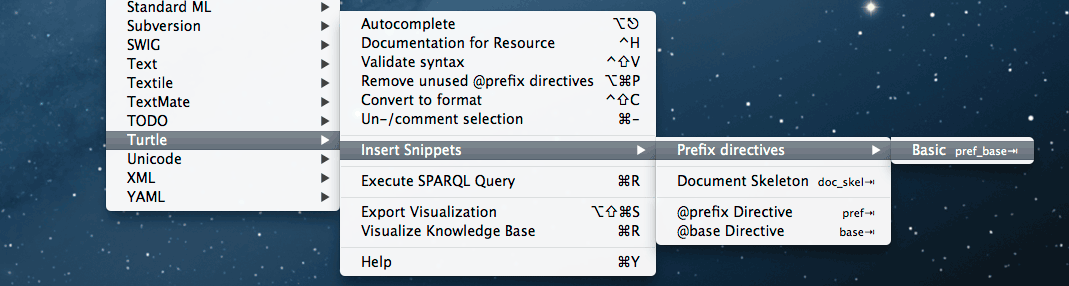
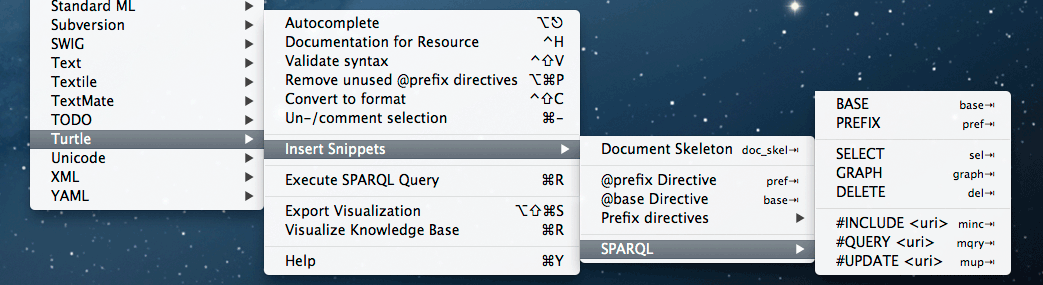
[README] Update readme (fix typo, update screenshot asf.)

diff --git a/README.md b/README.md
@@ -29,27 +29,27 @@ The Turtle bundle offers auto-completion at two levels:
 
 __NOTE: *When determining IRIs associated with a given prefix name, local prefix declarations always have precedence over those given by prefix.cc. So when you mess up IRIs in your @prefix directives, auto-completion might not work as expected.*__
 
-### Auto-completion for @prefix directives
+### Auto-completion for prefix directives
 
-When you invoke the `Autocomplete` command (ALT + ESCAPE) within the scope of a prefix directive (right after the `@prefix ` keyword), the Turtle bundle fetches a list of all prefixes registered at [prefix.cc](http://prefix.cc) and displays them nicely in a auto-complete dropdown box. Once you have chosen an and confirmed your selection, the prefix directive is automagically updated with the prefix and its according URI. (Note: the fetched data is locally cached for 24h)
+When you invoke the `Autocomplete` command (`⌥ + ⎋`) within the scope of a prefix directive (right after `@prefix` or `PREFIX`), the Turtle bundle fetches a list of all prefixes registered at [prefix.cc](http://prefix.cc) and displays them nicely in a auto-complete dropdown box. Once you have chosen an and confirmed your selection, the prefix directive is automagically updated with the prefix and its according URI. (Note: the fetched data is locally cached for 24h)
 
 __NOTE: *Auto-completion for prefix declarations is case-insensitive*__
 
 ### Auto-completion for the local part of prefixed name IRIs
 
-When you invoke the `Autocomplete` command (ALT + ESCAPE) within the scope of a prefixed name (e.g. right after `my:` or at `my:a...`), the Turtle bundle determines the actual URI that is abbreviated by the prefixed namespace and checks if there is a machine readable Vocabulary/Ontology document available (currently only RDF/S and OWL documents in the XML serialization format are supported -- but with known issues). When one is found, it is live-aggregated and all of its Classes and Roles/Properties are extracted (along with their documentation) and nicely presented in a auto-complete dropdown box. (Note: the fetched data is locally cached for 24h)
+When you invoke the `Autocomplete` command (`⌥ + ⎋`) within the scope of a prefixed name (e.g. right after `my:` or at `my:a...`), the Turtle bundle determines the actual URI that is abbreviated by the prefixed namespace and checks if there is a machine readable Vocabulary/Ontology document available (currently only RDF/S and OWL documents in the XML serialization format are supported -- but with known issues). When one is found, it is live-aggregated and all of its Classes and Roles/Properties are extracted (along with their documentation) and nicely presented in a auto-complete dropdown box. (Note: the fetched data is locally cached for 24h)
 
 __NOTE: *Auto-completion for prefixed names is case-sensitive*__
 
 ### Known issues
 
-For now, the Turtle bundle relies on [prefix.cc](http://prefix.cc) for mapping prefixes to URIs (required for all live-aggregations). The problem however is, that the available listings only contain one IRI per prefix (the one with the highest ranking) and not every IRI offers a machine readable vocabulary/ontology representation, what in turn means that for certain prefixes no auto-completion data is available. You can help to fix this, by visiting the according page at prefix.cc (URL scheme looks like `http://prefix.cc/<THE_PREFIX>`; without angle brackets of course) and up/downvoting the according URIs.
+For now, the Turtle bundle relies on [prefix.cc](http://prefix.cc) for mapping prefixes to URIs (required for all live-aggregations). The problem however is, that the available listings only contains one IRI per prefix (the one with the highest ranking) and not every IRI offers a machine readable vocabulary/ontology representation, what in turn means that for certain prefixes no auto-completion data is available. You can help to fix this, by visiting the according page at prefix.cc (URL scheme looks like `http://prefix.cc/<THE_PREFIX>`; without angle brackets of course) and up/downvoting the according URIs.
 
-The automatic aggregation of machine-readable vocabulary/ontology descriptions is working in principle but still has some shortcomings. (See the Github issue tracker) I will overwork that part when I have some more spare time and/or the need just arises.  
+The automatic aggregation of machine-readable vocabulary/ontology descriptions is working in principle but still has some shortcomings. (See the Github issue tracker) I will overwork that part when I have some more spare time and/or the need just arises. When you're told that data for a given prefix was fetched (green tooltip after a few seconds of freeze) but you will see no autocompletion dropdown later on, it probably means that the aggregator script failed and/or the IRI could not redirect to resource in a compatible format.
 
 ## Documentation for classes, roles/properties and individuals
 
-When you invoke the `Documentation for Resource` command (CTRL + H) within the scope of a prefixed name IRI (e.g. `my:Dog`), the Turtle bundle looks up if there are any informal descriptions available (like description texts, HTTP URLs to human-readable docs, asf.) and if so, displays them to the user. (Note: the fetched data is locally cached for 24h)
+When you invoke the `Documentation for Resource` command (`⌃ + H`) within the scope of a prefixed name IRI (e.g. `my:Dog`), the Turtle bundle looks up if there are any informal descriptions available (like description texts, HTTP URLs to human-readable docs, asf.) and if so, displays them to the user. (Note: the fetched data is locally cached for 24h)
 
 __NOTE: *That function also suffers from the issues outlined in the previous section.*__
 
@@ -63,7 +63,7 @@ All (web-based) query forms that crossed by cursor had one thing in common – t
 	+ including/calling other section from within the same document
 + query results are nicely displayed together with the query log in a preview window
 
-Just press `CMD + R` and your query will be executed.
+Just press `⌘ + R` and your query will be executed.
 
 ### Multiple sections/snippets syntax
 
@@ -76,23 +76,23 @@ You can have one document contain multiple (independent) sections. This is e.g. 
 A simple document with multiple sections could look like this:
 
 ```
-	#QUERY  <http://example1.com/ds/query>
-	#UPDATE <http://example1.com/ds/update>
+#QUERY  <http://example1.com/ds/query>
+#UPDATE <http://example1.com/ds/update>
 
-	PREFIX rdfs: <http://www.w3.org/2000/01/rdf-schema#>
-	PREFIX : <urn:example#>
+PREFIX rdfs: <http://www.w3.org/2000/01/rdf-schema#>
+PREFIX : <urn:example#>
 
-	INSERT DATA { :instanceA rdfs:label 'Human-readable label of instanceA'. }
+INSERT DATA { :instanceA rdfs:label 'Human-readable label of instanceA'. }
 
-	#---
-	PREFIX : <urn:example#>
-	SELECT (COUNT(?subj) AS ?n_subjs)
-	WHERE { ?subj a :ClassA }
+#---
+PREFIX : <urn:example#>
+SELECT (COUNT(?subj) AS ?n_subjs)
+WHERE { ?subj a :ClassA }
 
-	#---
-	PREFIX : <urn:example#>
-	SELECT ?g
-	WHERE { GRAPH ?g {} }
+#---
+PREFIX : <urn:example#>
+SELECT ?g
+WHERE { GRAPH ?g {} }
 ```
 
 As you probably notice, multiple sections are separated with the marker string `#---` written on a separate line.
@@ -119,43 +119,43 @@ that should contain the HTTP(S) URL to SPAR[QU]L endpoints. When even this fails
 Here is an example document with multiple sections and multiple magic comments for endpoints:
 
 ```
-	#QUERY  <http://example.com/ds/query>                 
-	#UPDATE <http://example.com/tbox/update>
-	PREFIX rdfs: <http://www.w3.org/2000/01/rdf-schema#>  \
-	PREFIX : <urn:example#>                               |
-	INSERT DATA {                                         | http://example.com/tbox/update
-	    :ClassB a rdfs:Class;                             |
-	        rdfs:subClassOf :ClassA.                      |
-	}                                                     /
+#QUERY  <http://example.com/ds/query>                 
+#UPDATE <http://example.com/tbox/update>
+PREFIX rdfs: <http://www.w3.org/2000/01/rdf-schema#>  \
+PREFIX : <urn:example#>                               |
+INSERT DATA {                                         | http://example.com/tbox/update
+    :ClassB a rdfs:Class;                             |
+        rdfs:subClassOf :ClassA.                      |
+}                                                     /
 
-	#---
-	#UPDATE <http://example.com/abox/update>
-	PREFIX : <urn:example#>                               \
-	INSERT DATA {                                         |
-	    :instA a :ClassB;                                 | http://example.com/abox/update
-	        rdfs:label 'Instance of ClassB'.              |
-	}                                                     /
+#---
+#UPDATE <http://example.com/abox/update>
+PREFIX : <urn:example#>                               \
+INSERT DATA {                                         |
+    :instA a :ClassB;                                 | http://example.com/abox/update
+        rdfs:label 'Instance of ClassB'.              |
+}                                                     /
 
-	#---
-	PREFIX : <urn:example#>                               \
-	SELECT (COUNT(?subj) AS ?n_subjs)                     | http://example.com/ds/query
-	WHERE { ?subj a :ClassA }                             /
+#---
+PREFIX : <urn:example#>                               \
+SELECT (COUNT(?subj) AS ?n_subjs)                     | http://example.com/ds/query
+WHERE { ?subj a :ClassA }                             /
 
-	#---
-	#QUERY <http://dbpedia.org/sparql>                    
-	SELECT DISTINCT ?s ?label                             \
-	WHERE {                                               | http://dbpedia.org/sparql
-	    ?s <http://dbpedia.org/property/season> ?o .      |
-	    ?s rdfs:label ?label                              |
-	}                                                     /
+#---
+#QUERY <http://dbpedia.org/sparql>                    
+SELECT DISTINCT ?s ?label                             \
+WHERE {                                               | http://dbpedia.org/sparql
+    ?s <http://dbpedia.org/property/season> ?o .      |
+    ?s rdfs:label ?label                              |
+}                                                     /
 
-	#---
-	BASE <http://dbpedia.org/>                            \
-	SELECT DISTINCT ?s ?label                             |
-	WHERE {                                               | http://dbpedia.org/sparql
-	    ?s rdfs:label ?label                              |
-	    FILTER( CONTAINS( STR(?label), 'The Wire') )      |
-	}                                                     /
+#---
+BASE <http://dbpedia.org/>                            \
+SELECT DISTINCT ?s ?label                             |
+WHERE {                                               | http://dbpedia.org/sparql
+    ?s rdfs:label ?label                              |
+    FILTER( CONTAINS( STR(?label), 'The Wire') )      |
+}                                                     /
 ```
 
 ### Additional magic comment types
@@ -173,47 +173,47 @@ When executed, every included snippet is listed separately in the web preview wi
 The order in which sections appear and are included in your document doesn't matter. So an included section doesn't have to be defined before the section it is included from. The following example shows a simple use-case:
 
 ```
-	#INCLUDE <drop-all>
-	#INCLUDE <insert-some-bnode>
-	#INCLUDE <select-all-bnodes>
-	DELETE { ?s ?p ?o }
-	WHERE { 
-		[] ?p ?o . 
-		?s <urn:example#label> ?o . 
-		?s ?p 'bnode 2' . 
-		FILTER( isBLANK( ?s ) )
-	}
-	#INCLUDE <select-all-bnodes>
-	
-	#---
-	#name= insert-some-bnode
-	PREFIX : <urn:example#>
-	INSERT DATA {
-		[ a :MyClass ] :label 'bnode 1' .
-		[ a :MyClass ] :label 'bnode 2' .
-		[ a :MyClass ] :label 'bnode 3' .
-	}
-	
-	#---
-	#name= drop-all
-	#descr= Drop all graphs – both, the default graph and all named ones
-	DROP ALL
-	
-	#---
-	#name= select-all-bnodes
-	#descr= Selects all bnodes in the default graph
-	SELECT DISTINCT *
-	WHERE {
-		?s ?p ?o 
-		FILTER isBLANK(?s)
-	}
+#INCLUDE <drop-all>
+#INCLUDE <insert-some-bnode>
+#INCLUDE <select-all-bnodes>
+DELETE { ?s ?p ?o }
+WHERE { 
+	[] ?p ?o . 
+	?s <urn:example#label> ?o . 
+	?s ?p 'bnode 2' . 
+	FILTER( isBLANK( ?s ) )
+}
+#INCLUDE <select-all-bnodes>
+
+#---
+#name= insert-some-bnode
+PREFIX : <urn:example#>
+INSERT DATA {
+	[ a :MyClass ] :label 'bnode 1' .
+	[ a :MyClass ] :label 'bnode 2' .
+	[ a :MyClass ] :label 'bnode 3' .
+}
+
+#---
+#name= drop-all
+#descr= Drop all graphs – both, the default graph and all named ones
+DROP ALL
+
+#---
+#name= select-all-bnodes
+#descr= Selects all bnodes in the default graph
+SELECT DISTINCT *
+WHERE {
+	?s ?p ?o 
+	FILTER isBLANK(?s)
+}
 ```
 
 ![Screenshot of SPARQL result preview window](./Support/img/screenshot-sparql.png "Screenshot of SPARQL result preview window")
 
 #### Notes
 
-There is also basic support for simple metadata properties in the following form: `#propname= some prop value`. It's kind of pendant to jsdoc or phpdoc comments. However, beside section names an description texts I have no idea how this could be used. Do you?
+There is also basic support for simple metadata properties in the following form: `#propname= some prop value`. It's the SPARQL pendant to jsdoc or phpdoc comments. However, beside section names an description texts I have no idea how this could be used. Do you?
 
 I have the vague idea of a pastebin for SPARQL in mind, where one can host reusable SPARQL snippets with support for parametrized SPARQL calls. What do you think about it?    
 
@@ -252,7 +252,7 @@ In order to make use of the converter functionality, you must a have a working i
 
 ## Installation
 
-The Turtle bundle is now officially available through the Textate bundle installer (Textmate -> Preferences -> Bundles). However, it usually takes a few days until new releases are available through the bundle installer (make sure that you enabled 'Keep bundles updated' in the application preferences). If you know what you do, you can also install bundles (like Turtle) by hand. Just download/clone this repository, and place its root directory at `~/Library/Application Support/Avian/Bundles/Turtle.tmbundle`. That way it's kept distinct from bundles installed through the bundle installer. Textmate should notice the new bundle automatically; but when in doubt, just restart Textmate (`CTRL + CMD + Q`). 
+The Turtle bundle is now officially available through the Textate bundle installer (_Textmate -> Preferences -> Bundles_). However, it usually takes a few days until new releases are available through the bundle installer (make sure that you enabled 'Keep bundles updated' in the application preferences). If you know what you do, you can also install bundles (like Turtle) by hand. Just download/clone this repository, and place its root directory at `~/Library/Application Support/Avian/Bundles/Turtle.tmbundle`. That way it's kept distinct from bundles installed through the bundle installer. Textmate should notice the new bundle automatically; but when in doubt, just restart Textmate (`⌃ + ⌘ + Q`). 
 
 ## Screenshots
 
